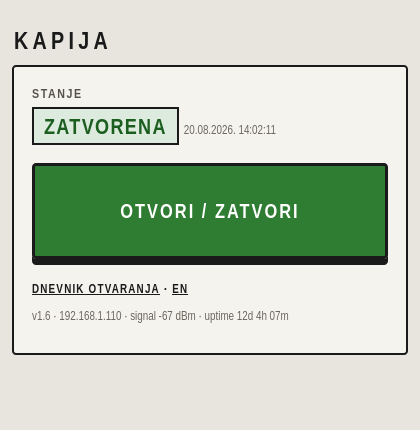
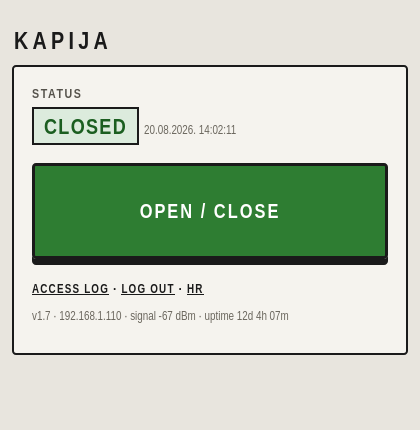
Rework docs for a public audience; English UI screenshots
Owner review follow-ups:
- README screenshots regenerated with the English UI (public default
  config: login link visible).
- Internal development notes (REQUIREMENTS.md requirement revs and risk
  logs, NICE-ROBUS-NOTES.md research) moved to gitignored docs/dev/ -
  they documented the journey, not what a builder needs.
- New public docs/BACKLOG.md: planned improvements only, plain list.
- New hardware/ROBUS-NOTES.md: the platform facts a builder actually
  relies on (terminals used, 33 V tap reality, L4 setting, asymmetric
  step-by-step sequence, S.C.A. blink behavior).
- README links and layout updated accordingly.

Developed with help of AI

diff --git a/hardware/ROBUS-NOTES.md b/hardware/ROBUS-NOTES.md
@@ -1,0 +1,43 @@
+# Nice Robus platform notes
+
+The facts about the Nice Robus drive family that this project relies on.
+Verified on a ROBUS350; RB400/600/1000 share the same control platform.
+
+## Terminals used
+
+The control board's low-voltage terminal row is FLASH, S.C.A., BLUEBUS,
+STOP, P.P. This project touches only:
+
+| Terminal | Function | Used for |
+|---|---|---|
+| P.P. | step-by-step dry-contact input | relay pulse = "button press" |
+| S.C.A. | open-gate indicator output | gate state via optocoupler |
+| P.P./STOP inner pins | accessory power tap | powers the ESP32 |
+
+Everything else (photocells on BLUEBUS, the flashing lamp, the radio
+receiver) stays untouched.
+
+## Accessory power reality
+
+The tap is specified as 24 Vdc (-30/+50%), max 100 mA - but it measures
+33 V unloaded. Any regulator fed from it must tolerate at least 40 V
+input (LM2596 class). Details and part list in [BOM.md](BOM.md).
+
+## Board settings and behavior
+
+- Level-2 function L4 ("open gate indicator") must be set so S.C.A. is
+  on while the leaf is open. This is the only board setting v1 needs.
+- S.C.A. blinks during travel and is steady at the end positions. The
+  firmware settle-filters it and uses the blinking to detect movement,
+  including moves started with an RF remote.
+- The step-by-step sequence is asymmetric (field-verified): a command
+  during opening STOPS the gate; a command during closing REVERSES it
+  to full open (obstacle-safety behavior).
+- Optional later: L1 auto-close, L2 condominium mode - see
+  [../docs/BACKLOG.md](../docs/BACKLOG.md).
+
+## Radio
+
+The existing rolling-code remotes (433.92 MHz) keep working unchanged.
+RF replay is impossible by design (rolling code), which is exactly why
+this project triggers the gate over a wire instead.

diff --git a/docs/BACKLOG.md b/docs/BACKLOG.md
@@ -1,0 +1,32 @@
+# Backlog
+
+Planned improvements, in rough priority order. No dates promised.
+
+## App
+
+- Per-tenant PINs with a named access log (individual revocation)
+- Home-screen app feel: web manifest + icon, vibration on press
+- Faster status polling right after a trigger
+- "Gate open too long" warning banner
+- Per-IP rate limit on the trigger endpoint
+- CSV export of the access log
+
+## Connectivity and updates
+
+- Browser-push OTA: upload new firmware to the device straight from a
+  browser (removes the espota return-connection and password-escaping
+  pitfalls described in firmware/README.md)
+- Dual-mode WiFi (access point + station at the same time) as a fallback
+  control path when the home router is down
+
+## Drive features (Nice Robus board settings)
+
+- Auto-close (board function L1) with pause time
+- Condominium step-by-step mode (L2): commands during opening are ignored
+
+## Hardware (needs a site visit)
+
+- Reed switch for certain closed-position sensing
+- Battery-backed RTC (DS3231) - low priority now that browsers donate time
+- Buzzer chirp on trigger
+- External antenna for weak WiFi at the gate

diff --git a/README.md b/README.md
@@ -83,7 +83,7 @@ One spec is critical: the Robus "24 V" accessory tap actually measures
 
 - Full parts list and buying notes: [hardware/BOM.md](hardware/BOM.md)
 - Wiring, terminal map and install checklist: [hardware/WIRING.md](hardware/WIRING.md)
-- Platform research on the Nice Robus family: [docs/NICE-ROBUS-NOTES.md](docs/NICE-ROBUS-NOTES.md)
+- Nice Robus platform facts this project relies on: [hardware/ROBUS-NOTES.md](hardware/ROBUS-NOTES.md)
 
 ## Build your own
 
@@ -114,9 +114,11 @@ from triggering the gate. OTA flashing has its own separate password.
 
 ```
 firmware/   PlatformIO project (ESP32, Arduino framework, no external libs)
-hardware/   Bill of materials, wiring diagram, assembly notes, build photo
-docs/       Requirements, field-test findings, Nice Robus platform research
+hardware/   Bill of materials, wiring, platform notes, build photo
+docs/       Backlog and app screenshots
 ```
+
+Planned improvements live in [docs/BACKLOG.md](docs/BACKLOG.md).
 
 ## License
 
